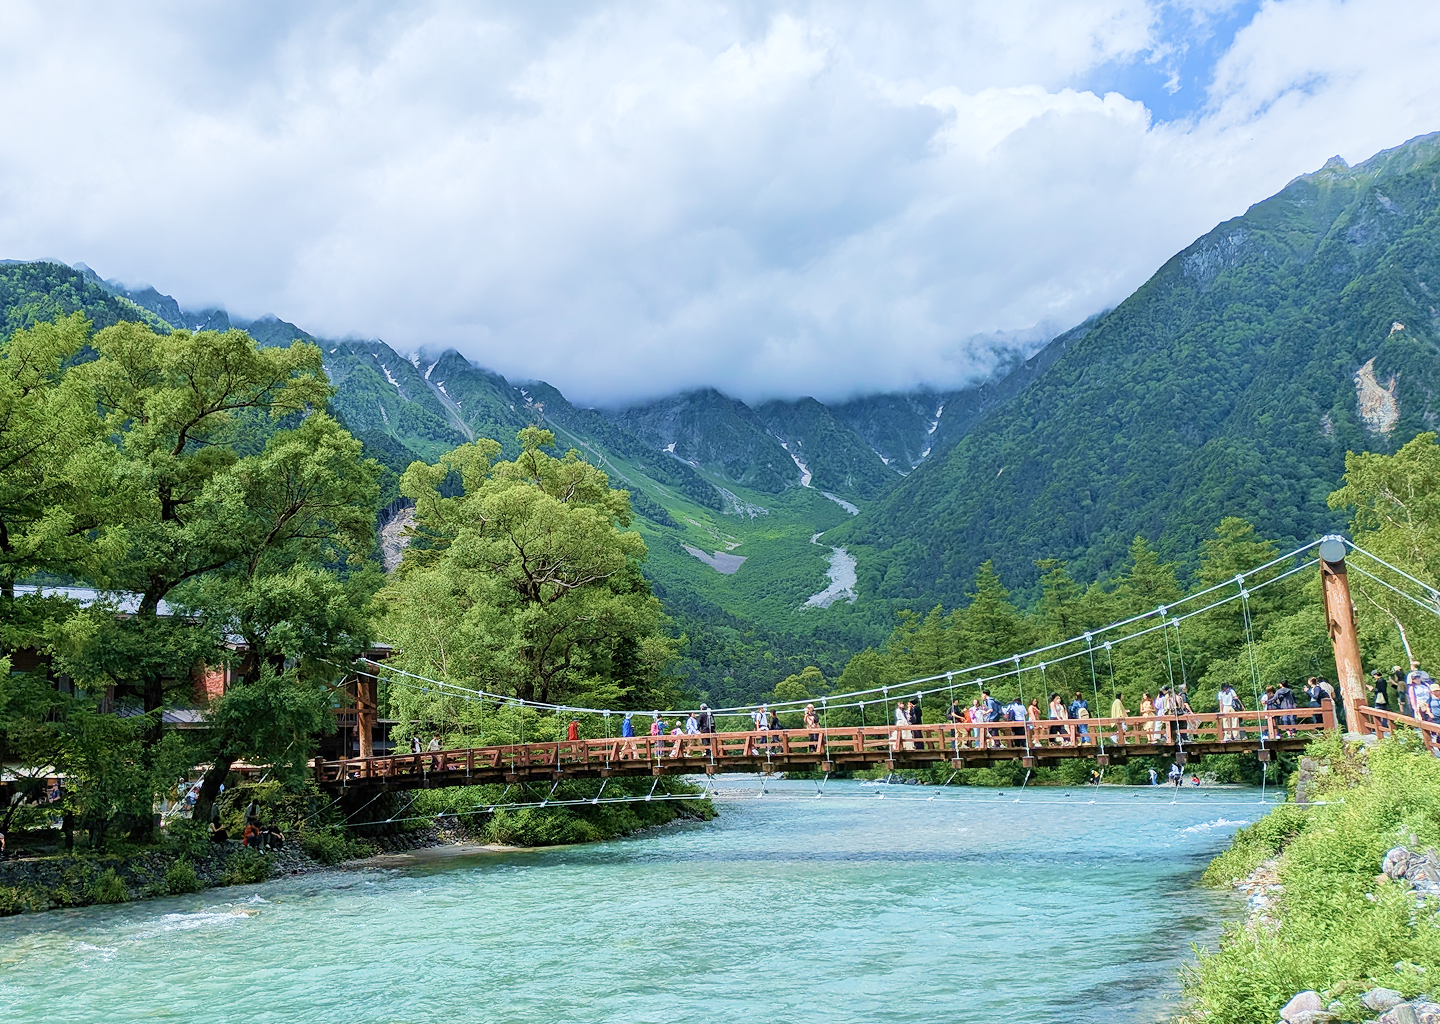
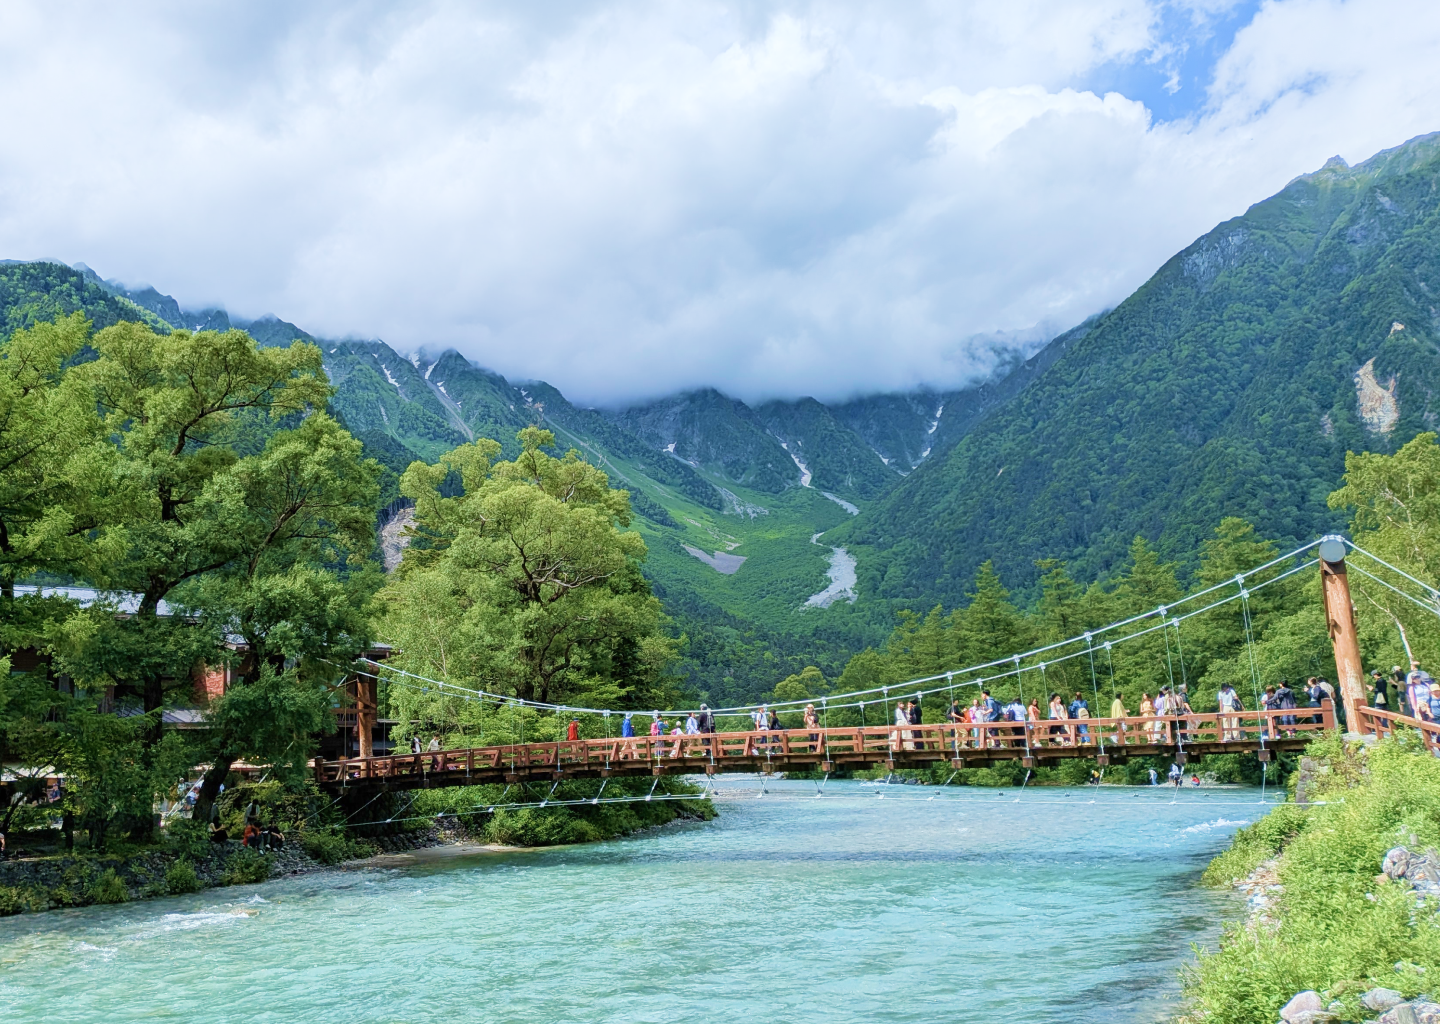
HEROのHTML/CSSを制作

diff --git a/style.css b/style.css
@@ -1,2 +1,103 @@
 @charset "utf-8";
 
+
+:root {
+  --font-base:"Noto Sans JP", "Hiragino Sans", "Yu Gothic", Meiryo, sans-serif;
+  --font-title:Cinzel, Georgia, "Times New Roman", serif;
+  --corporate-color:#619E93;
+}
+
+html {
+  height: 100%;
+  font-size: 62.5%;
+  font-family: var(--font-base);
+}
+
+body {
+  background: pink;
+  margin: 0;
+  height:100%;
+}
+
+* {
+  box-sizing: border-box;
+}
+
+h1,
+p {
+  margin: 0;
+}
+
+img {
+  vertical-align: bottom;
+}
+
+#hero {
+  position: relative;
+  width: 100%;
+  height: 1024px;
+  background: url(images/hero.png) center/ cover no-repeat;
+}
+
+#hero header {
+  display: flex;
+  justify-content: space-between;
+  align-items: center;
+  width: 100%;
+  height: 144px;
+}
+
+#hero header .logo {
+  padding: 32px;
+}
+
+#hero header #menu a{
+  display: block;
+  padding: 8px;
+  margin: 32px;
+  color: white;
+  text-decoration: none;
+  line-height: 1;
+  background: rgba(0, 0, 0, 30%);
+  border-radius: 8px;
+}
+
+#hero header #menu a i{
+  display: block;
+  font-size: 4.1em;
+}
+
+#hero .hero-text {
+  position: absolute;
+  top: 150px;
+  left: 80px;
+  display: block;
+}
+
+#hero .hero-text h1 {
+  font-family: var(--font-title);
+  font-weight: 400;
+  font-size: 8.0em;
+  color: white;
+  text-shadow: 2px 4px 4px rgba(0, 0, 0, 0.25);
+}
+
+#hero .hero-text p {
+  color: white;
+  font-size: 2.8em;
+  letter-spacing: 0.15em;
+  font-weight: 300;
+  text-shadow: 2px 4px 4px rgba(0, 0, 0, 0.8);
+}
+
+#hero .hero-text div a.tour-form {
+  font-size: 1.6em;
+  color: white;
+  text-decoration: none;
+  padding: 18px 40px;
+  border: 3px solid #fff;
+  border-radius: 8px;
+  display: inline-block;
+  margin-top: 48px;
+  text-shadow: 2px 4px 4px rgba(0, 0, 0, 0.8);
+}

diff --git a/index.html b/index.html
@@ -4,11 +4,27 @@
   <meta charset="UTF-8">
   <meta name="viewport" content="width=device-width, initial-scale=1.0">
   <title>Corporate Site</title>
-  <link type="icon" src="images/logo.svg">
+  <link rel="icon" href="images/logo.svg" type="image/svg+xml">
+  <link rel="preconnect" href="https://fonts.googleapis.com">
+  <link rel="preconnect" href="https://fonts.gstatic.com" crossorigin>
+  <link
+    href="https://fonts.googleapis.com/css2?family=Cinzel:wght@400&family=Noto+Sans+JP:wght@300;400;500&display=swap"
+    rel="stylesheet">
   <link rel="stylesheet" href="https://cdn.jsdelivr.net/npm/bootstrap-icons@1.11.3/font/bootstrap-icons.min.css">
   <link rel="stylesheet" href="style.css">
 </head>
 <body>
+  <section id="hero">
+    <header>
+      <div class="logo"><a href="#"><img src="images/logo.svg" width="80" height="80" alt="KAMIKOCHI OUTDOOR TRAVEL ロゴ"></a></div>
+      <div id="menu"><a href="#"><i class="bi bi-list"></i></a></div>
+    </header>
+    <div class="hero-text">
+      <h1>KAMIKOCHI<br>OUTDOOR TRAVEL</h1>
+      <p>四季折々の上高地を、あなたの旅に。</p>
+      <div><a href="#" class="tour-form">ツアーに申し込む</a></div>
+    </div>
+  </section>
 
   <script src="main.js"></script>
 </body>
